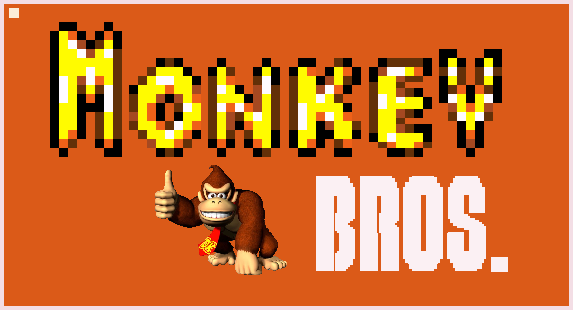
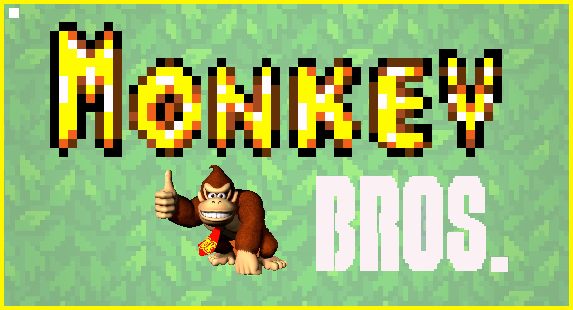
Añadidas todas las texturas faltantes y las 3 vidas del mono

diff --git a/src/main/resources/css/MainTheme.css b/src/main/resources/css/MainTheme.css
@@ -33,6 +33,10 @@
 	-fx-background-repeat: no-repeat;
 }
 
+.tituloGrande{
+	-fx-font-size: 98.0px;
+}
+
 .titulo{
 	-fx-font-size: 68.0px;
 }

diff --git a/src/main/java/dad/CoreJuego/Controllers/menu/SonidoGridPane.java b/src/main/java/dad/CoreJuego/Controllers/menu/SonidoGridPane.java
@@ -46,8 +46,8 @@ public class SonidoGridPane extends GridPane implements Initializable {
 	@FXML
 	private GridPane view;
 
-	@FXML
-	private Slider volumenSlider;
+//	@FXML
+//	private Slider volumenSlider;
 
 	@FXML
 	private Slider musicaSlider;
@@ -72,7 +72,7 @@ public class SonidoGridPane extends GridPane implements Initializable {
 
 		// bindings
 
-		porcentajeVolumenLabel.textProperty().bind(Bindings.format("%.0f", volumenSlider.valueProperty()).concat("%"));
+//		porcentajeVolumenLabel.textProperty().bind(Bindings.format("%.0f", volumenSlider.valueProperty()).concat("%"));
 		porcentajeMusicaLabel.textProperty().bind(Bindings.format("%.0f", musicaSlider.valueProperty()).concat("%"));
 
 		// listeners
@@ -144,59 +144,31 @@ public class SonidoGridPane extends GridPane implements Initializable {
 	}
 
 	/**
-	 * metodo que carga el volumen 
+	 * Método que carga el volumen.
+	 * Si no se encuentran las properties pone el volumen al 100 por ciento
+	 * por defecto
 	 * 
 	 */
 	
-	public void loadVolumenValue() {
-		int numVolum = 0;
-		try {
-			numVolum = Integer.parseInt(properties.getProperty("volumenAmount"));
-		} catch (Exception e) {
-		}
-		if (numVolum != 0/* && properties.getProperty("volumenAmount") != null */) {
-			volumenSlider.valueProperty().set(numVolum); // valor por defecto
-		} else {
-			volumenSlider.valueProperty().set(100);
-			actualizarProperty("volumenAmount", volumenSlider.valueProperty().intValue());
-		}
-	}
-
-	/**
-	 * metodo que carga el volumen de la musica
-	 */
-	
 	public void loadMusicaValue() {
-		int numMusic = 0;
+		int numMusic = -1;
 		try {
 			numMusic = Integer.parseInt(properties.getProperty("musicaAmount"));
 		} catch (Exception e) {
 		}
-		if (numMusic != 0) {
+		if (numMusic != -1) {
 			musicaSlider.valueProperty().set(numMusic); // valor por defecto
 		} else {
 			musicaSlider.valueProperty().set(100);
-			actualizarProperty("musicaAmount", volumenSlider.valueProperty().intValue());
+			actualizarProperty("musicaAmount", musicaSlider.valueProperty().intValue());
 		}
 	}
 
 	/**
-	 * metodo que recibe las la accion del raton para 
+	 * metodo que se acciona al dejar de presionar el slider
+	 * de la música
 	 * 
 	 * @param event
-	 */
-	
-	@FXML
-	void onVolumenDragExit(MouseEvent event) {
-		if (properties.getProperty("volumenAmount") == null) { // por si cambian el archivo manualmente
-			properties.setProperty("volumenAmount", "100");
-		}
-		actualizarProperty("volumenAmount", volumenSlider.valueProperty().intValue());
-	}
-
-	/**
-	 * TODO
-	 * @param event recibe la entrada de los parametros
 	 */
 	
 	@FXML

diff --git a/src/main/java/dad/CoreJuego/Controllers/menu/PartidaPerdidaController.java b/src/main/java/dad/CoreJuego/Controllers/menu/PartidaPerdidaController.java
@@ -1,0 +1,69 @@
+package dad.CoreJuego.Controllers.menu;
+
+import java.io.IOException;
+import java.net.URL;
+import java.util.ResourceBundle;
+
+import dad.CoreJuego.Controllers.game.GameController;
+import dad.CoreJuego.Elementos.main.MonkeyBrosApp;
+import javafx.fxml.FXML;
+import javafx.fxml.FXMLLoader;
+import javafx.fxml.Initializable;
+import javafx.scene.control.Button;
+import javafx.scene.input.MouseEvent;
+import javafx.scene.layout.BorderPane;
+
+// Gestión de la escena del menú de Juego
+public class PartidaPerdidaController implements Initializable {
+	// view
+
+	@FXML
+	private Button menuVolverMenuButton;
+
+	@FXML
+	private BorderPane view;
+	
+	private BorderPane anteriorView;
+
+	// controller
+	GameController gameController;
+
+	@Override
+	public void initialize(URL location, ResourceBundle resources) {
+		// https://www.youtube.com/watch?v=aOcow70vqb4
+	}
+
+	public PartidaPerdidaController() {
+		try {
+			FXMLLoader loader = new FXMLLoader(getClass().getResource("/fxml/Menus/MenuPartidaPerdidaView.fxml"));
+			loader.setController(this);
+			loader.load();
+		} catch (IOException e) {
+			e.printStackTrace();
+		}
+	}
+
+	public BorderPane getAnteriorView() {
+		return anteriorView;
+	}
+
+	public void setAnteriorView(BorderPane anteriorView) {
+		this.anteriorView = anteriorView;
+	}
+
+	public BorderPane getView() {
+		return view;
+	}
+
+	@FXML
+	void onEmpezarPartidaClickAction(MouseEvent event) {
+		
+	}
+	
+	@FXML
+    void volverAlMenuClickAction(MouseEvent event) {
+		RootMenuController rootMenuController = new RootMenuController();
+		MonkeyBrosApp.scene.setRoot(rootMenuController.getView());
+    }
+
+}

diff --git a/src/main/java/dad/CoreJuego/Controllers/menu/RootMenuController.java b/src/main/java/dad/CoreJuego/Controllers/menu/RootMenuController.java
@@ -64,12 +64,12 @@ public class RootMenuController implements Initializable {
 	// paths
 
 	public static final File RUTA_PDF_FOLDER = new File(
-			System.getProperty("user.home") + File.separator + "MonkeyBros" + File.separator + "pdf");
+			System.getProperty("user.home") + File.separator + ".MonkeyBros" + File.separator + "pdf");
 	public static final File RUTA_CONFIG_FOLDER = new File(
-			System.getProperty("user.home") + File.separator + "MonkeyBros" + File.separator + "configuracion");
+			System.getProperty("user.home") + File.separator + ".MonkeyBros" + File.separator + "configuracion");
 	public static final String RUTAFULL = RUTA_CONFIG_FOLDER.getPath() + File.separator + "configuracion.props";
 
-	public static final String RUTA_PLAYER_IDS = System.getProperty("user.home") + File.separator + "MonkeyBros"
+	public static final String RUTA_PLAYER_IDS = System.getProperty("user.home") + File.separator + ".MonkeyBros"
 			+ File.separator + "players" + File.separator + "player_ids.props";
 
 	// audio

diff --git a/src/main/java/dad/CoreJuego/Elementos/main/MonkeyBrosApp.java b/src/main/java/dad/CoreJuego/Elementos/main/MonkeyBrosApp.java
@@ -27,7 +27,7 @@ public class MonkeyBrosApp extends Application {
 	// requiere que primaryStage no sea nulo, debido a que se usa para modificar el tamaño de
 	// la ventana en el initialize() del rootController
 	private RootMenuController controller;
-	private GameController game;
+//	private GameController game;
 
 	
 	
@@ -41,11 +41,11 @@ public class MonkeyBrosApp extends Application {
 	public void start(Stage primaryStage) throws Exception {
 
 		MonkeyBrosApp.primaryStage = primaryStage;
-//		controller = new RootMenuController();
+		controller = new RootMenuController();
 //		scene = new Scene(controller.getView());
 		
-		game = new GameController();
-		scene = new Scene(game.getView());
+//		game = new GameController();
+		scene = new Scene(controller.getView());
 
 		primaryStage.setScene(scene); 
 		primaryStage.setTitle("MonkeyBros");

diff --git a/src/main/java/dad/CoreJuego/Elementos/Monkey.java b/src/main/java/dad/CoreJuego/Elementos/Monkey.java
@@ -9,6 +9,8 @@ import org.jbox2d.dynamics.BodyType;
 import org.jbox2d.dynamics.FixtureDef;
 import org.jbox2d.dynamics.World;
 
+import dad.CoreJuego.Controllers.menu.PartidaPerdidaController;
+import dad.CoreJuego.Elementos.main.MonkeyBrosApp;
 import dad.CoreJuego.animation.Animation;
 import javafx.scene.canvas.GraphicsContext;
 import javafx.scene.paint.Color;
@@ -197,7 +199,8 @@ public class Monkey extends Entity {
 	
 	public void isGameOver() {
 		if(life.getLife()==0) {
-			
+			PartidaPerdidaController partidaPerdidaController = new PartidaPerdidaController();
+			MonkeyBrosApp.scene.setRoot(partidaPerdidaController.getView());
 		}
 	}
 	

diff --git a/src/main/java/dad/CoreJuego/Controllers/menu/OpcionesMenuController.java b/src/main/java/dad/CoreJuego/Controllers/menu/OpcionesMenuController.java
@@ -67,7 +67,6 @@ public class OpcionesMenuController implements Initializable {
 
 	public void actualizarSonidoProperties() {
 		sonidoGridPane.setProperties(properties);
-		sonidoGridPane.loadVolumenValue();
 		sonidoGridPane.loadMusicaValue();
 		opcionesLabel.setText("Sonido");
 	}

diff --git a/src/main/java/dad/CoreJuego/Elementos/Life.java b/src/main/java/dad/CoreJuego/Elementos/Life.java
@@ -55,17 +55,4 @@ public class Life {
 		}
 		return 0;
 	}
-	
-	
-	//Prueba de que funciona la clase
-	public static void main(String[] args) {
-		
-		Life life= new Life(false);
-		
-		life.setLife(1.5);
-		
-		System.out.println(life.showLife());
-		
-	}
-	
 }

diff --git a/src/main/java/dad/CoreJuego/Elementos/Game.java b/src/main/java/dad/CoreJuego/Elementos/Game.java
@@ -53,7 +53,7 @@ public abstract class Game extends AnimationTimer {
 		canvas.setOnKeyReleased(e -> input.remove(e.getCode()));
 		canvas.setFocusTraversable(true);
 		canvas.requestFocus();
-
+		
 		int widthRes = 1080;
 		int heightRes = 720;
 
